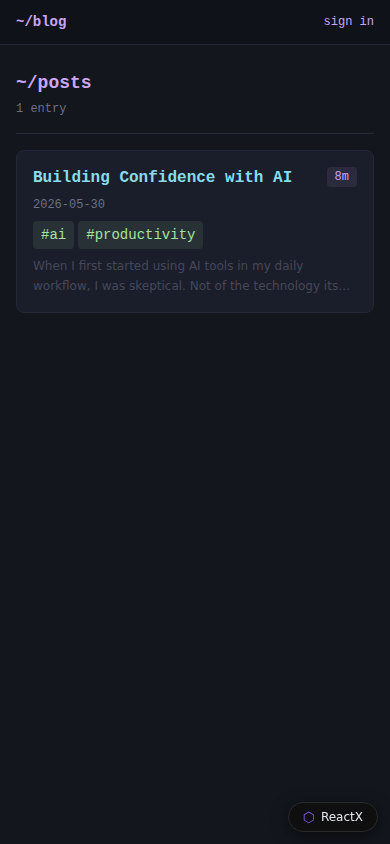
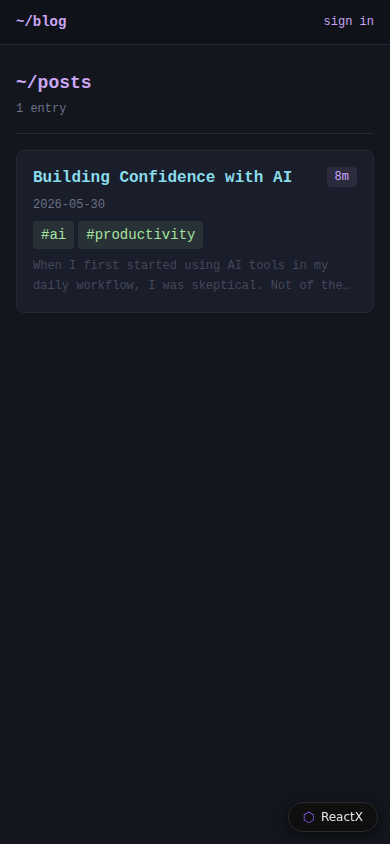
style: apply font-mono at root level for both desktop and mobile
https://claude.ai/code/session_01TmoDrug1paqAPqPonjepTE

Changed region(s): [[0.0923, 0.3081, 0.8615, 0.3697]]

diff --git a/src/mobile/components/App.tsx b/src/mobile/components/App.tsx
@@ -5,7 +5,7 @@ import { BlogPost } from "./BlogPost";
 export function App() {
   const app = useApp();
   return (
-    <div className="min-h-screen bg-terminal text-text">
+    <div className="min-h-screen bg-terminal text-text font-mono">
       <header className="sticky top-0 z-10 flex items-center justify-between px-4 py-3 bg-chrome border-b border-border">
         <span className="font-mono text-sm font-bold text-mauve">~/blog</span>
         {app.user ? (

diff --git a/src/desktop/components/App.tsx b/src/desktop/components/App.tsx
@@ -52,7 +52,7 @@ export function App() {
           </div>
         </div>
         {/* Content */}
-        <div className="p-6 bg-terminal">
+        <div className="p-6 bg-terminal font-mono">
           {app.selectedPostSlug ? <BlogPost /> : <BlogList />}
         </div>
       </div>
